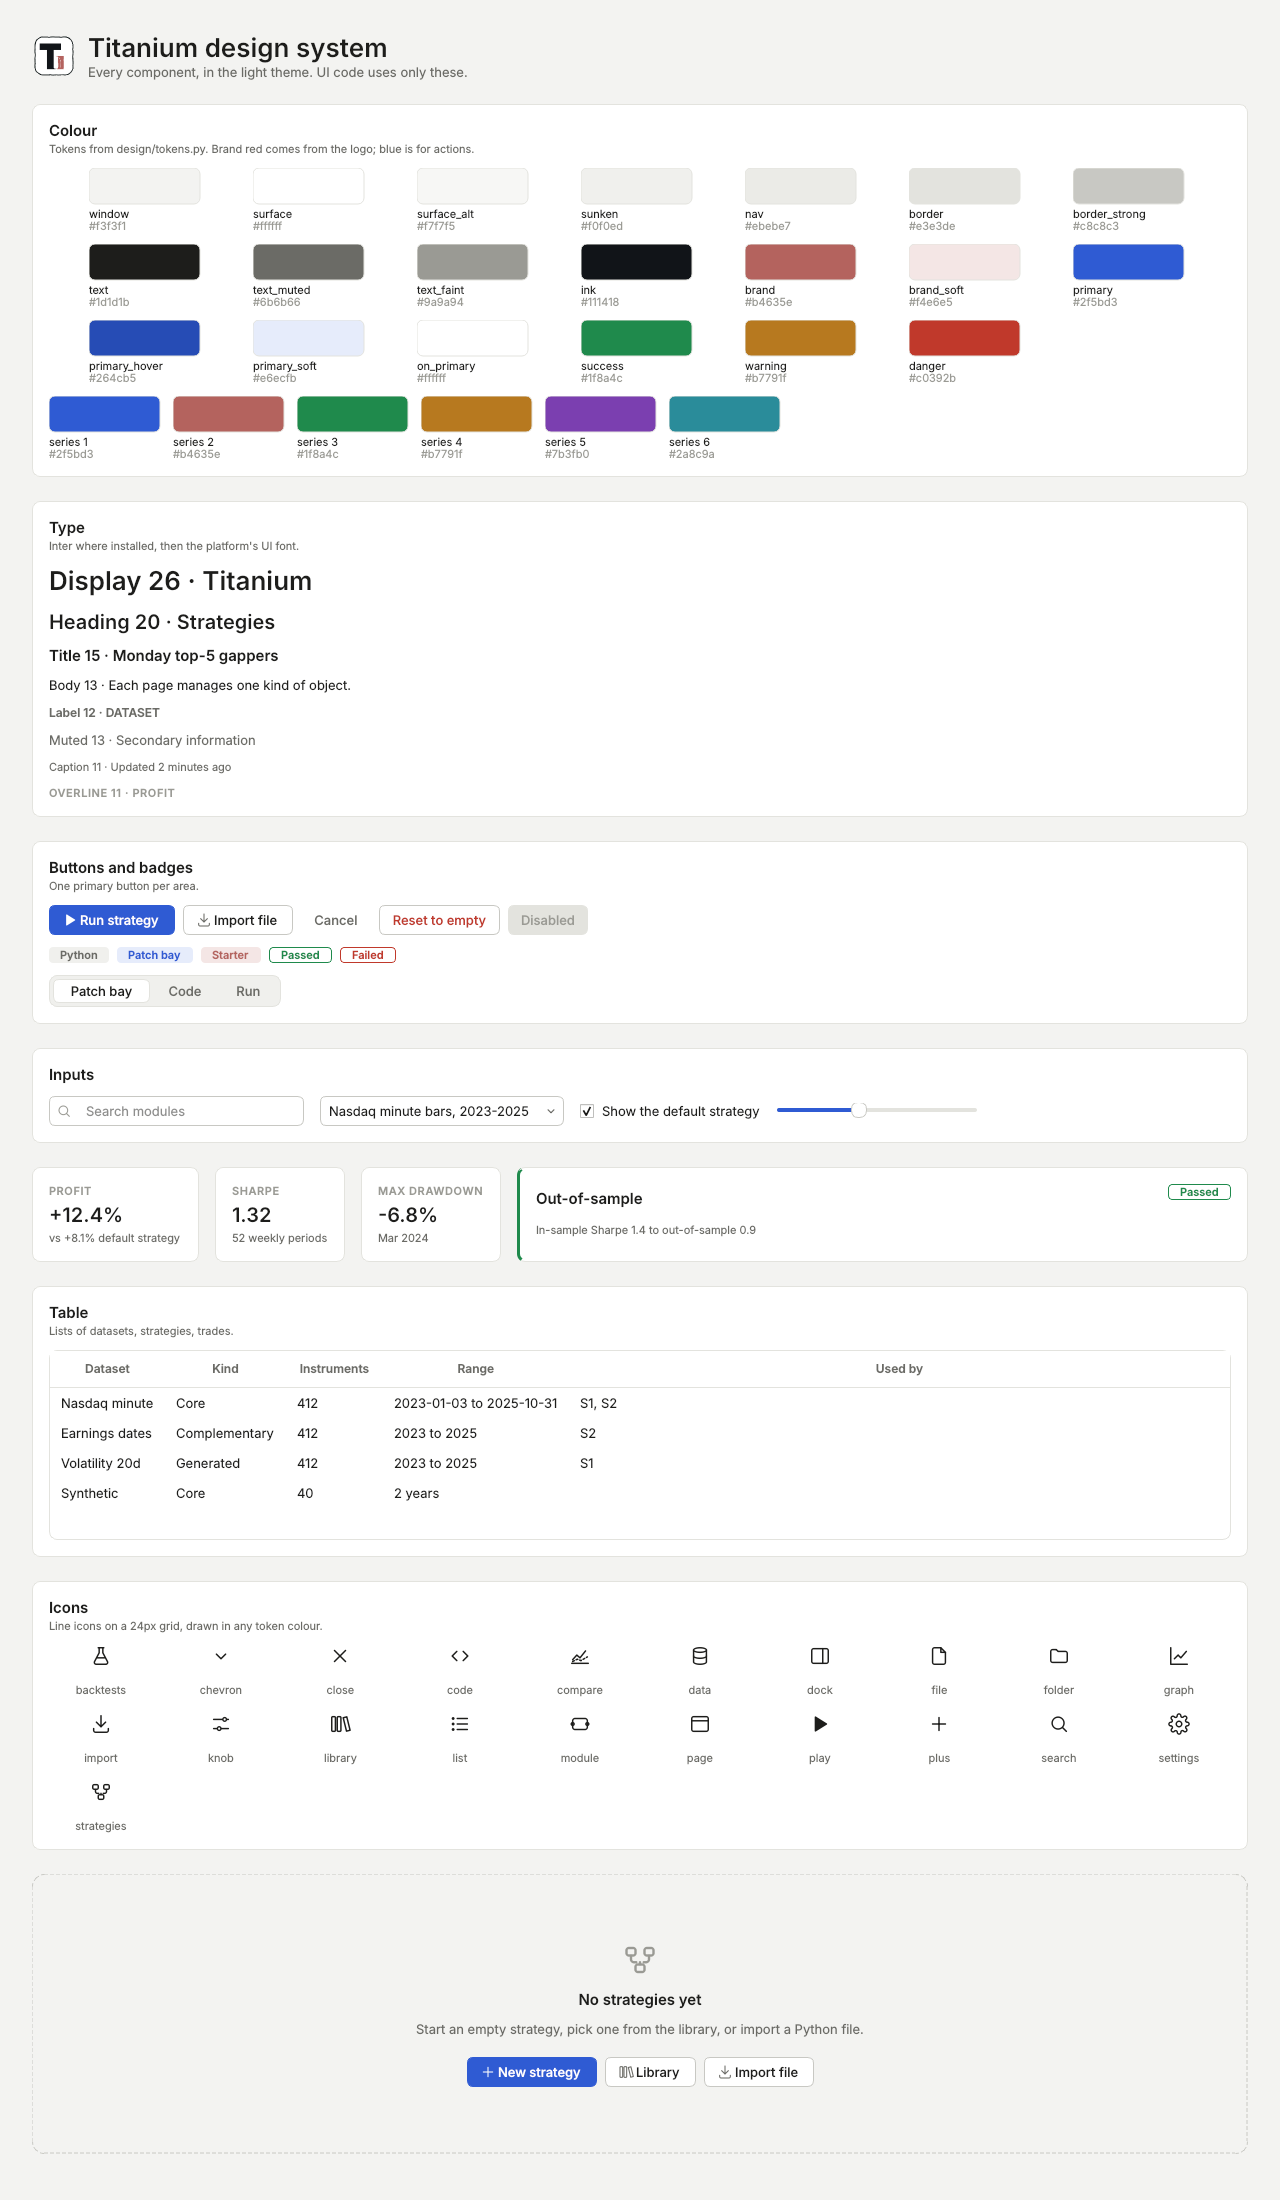
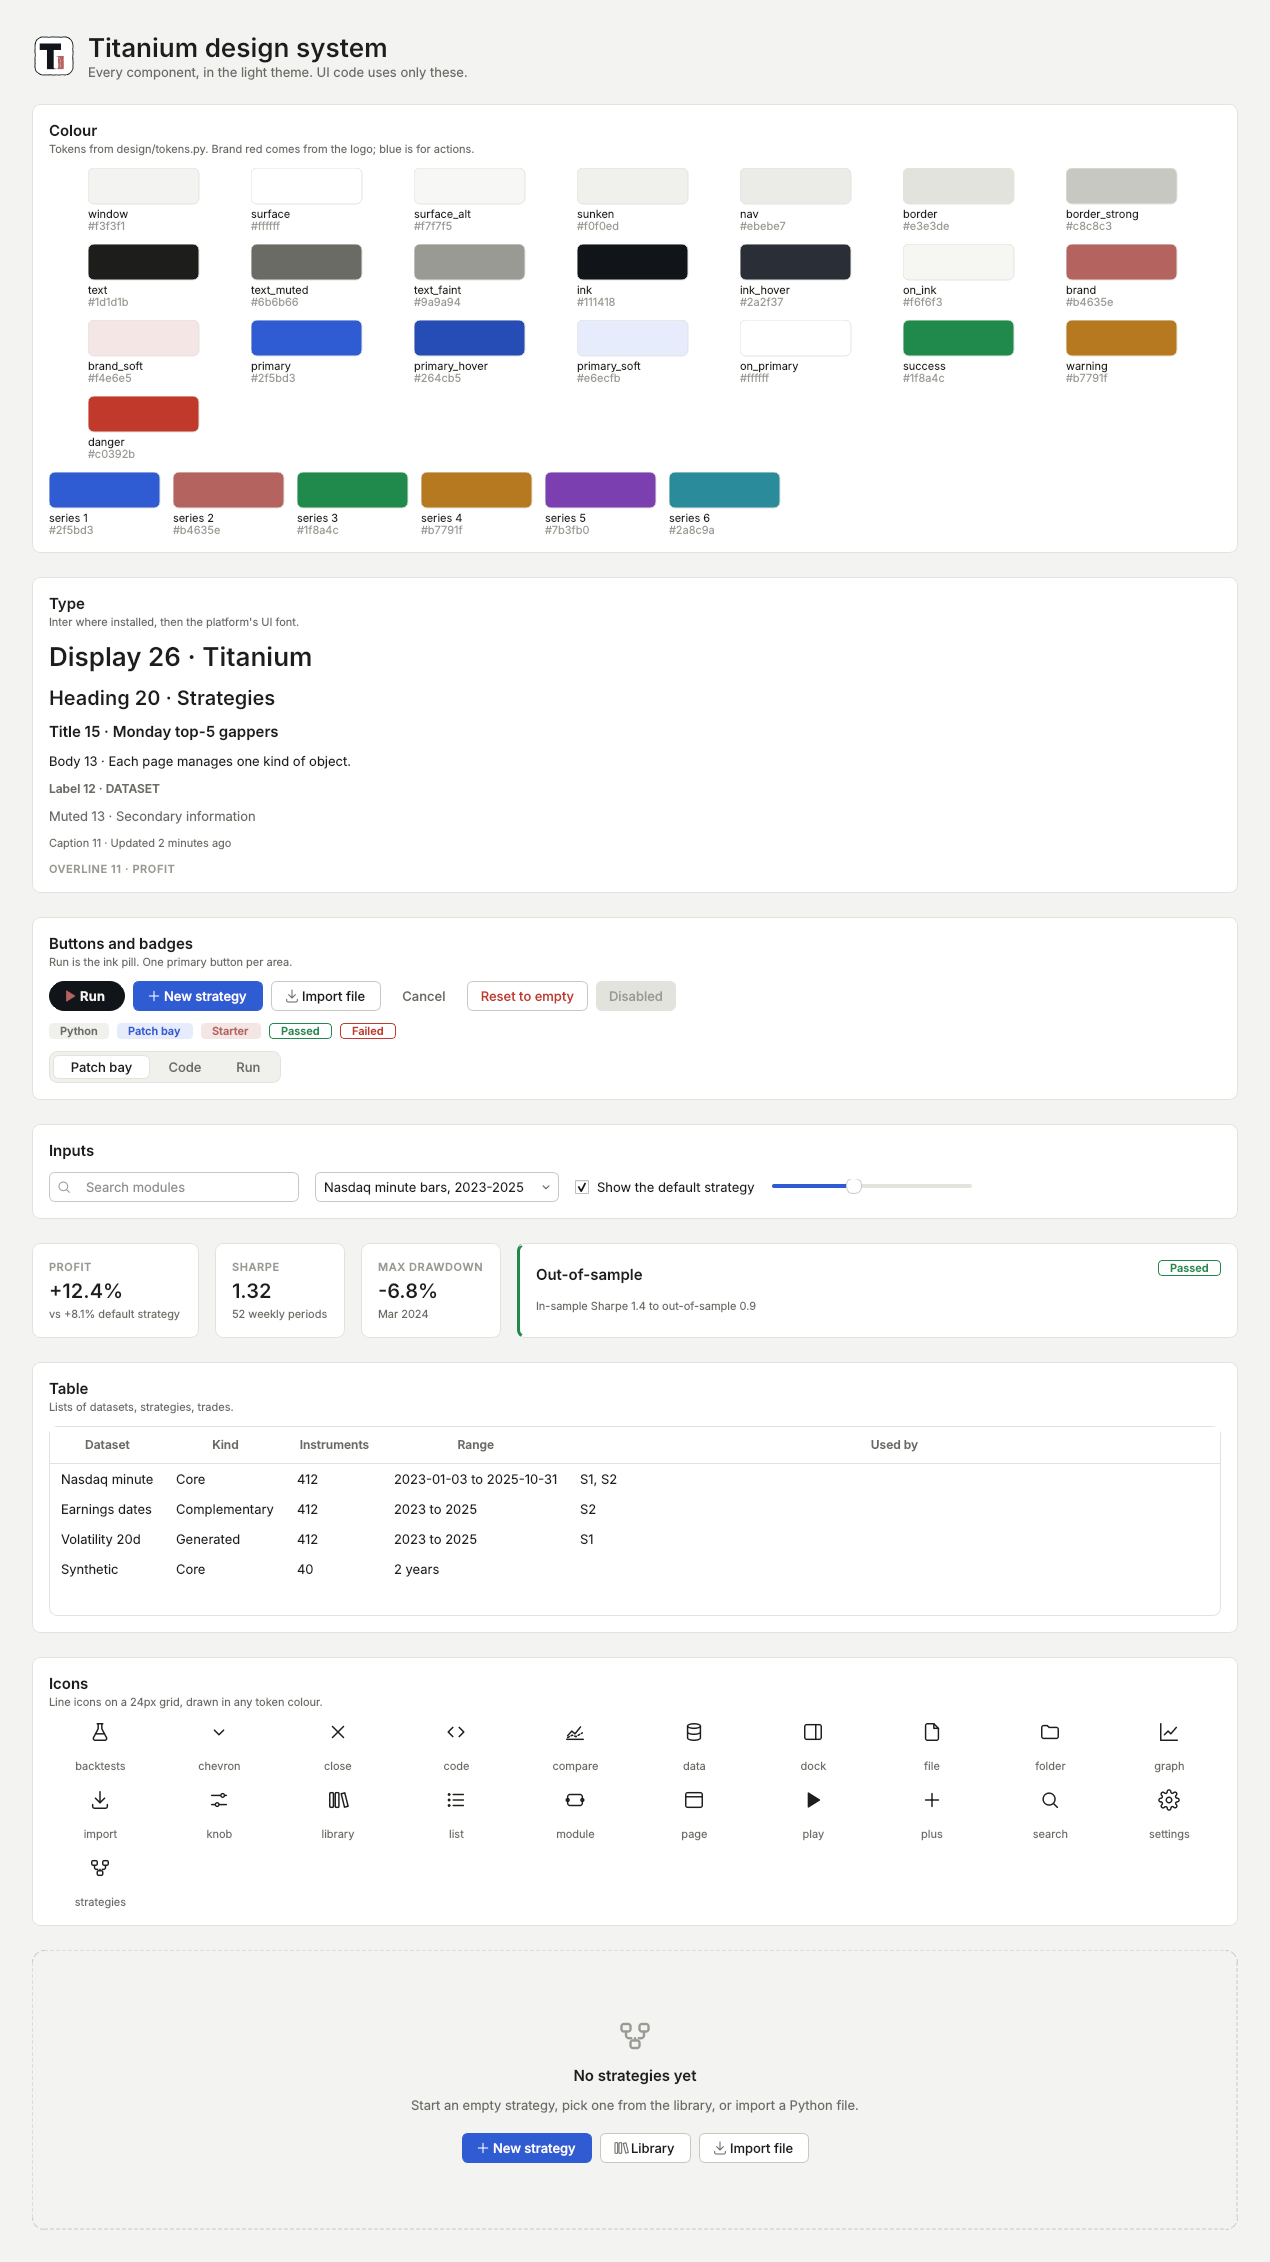
Make Run a sleek ink pill instead of a blue block
Adds a 'run' button variant (ink background, pill shape, brand-red play glyph,
shortcut hint beside it) with ink_hover/on_ink tokens, shown in the gallery.

Claude-Session: https://claude.ai/code/session_019kgugidBpGqJeYENPybQqe

diff --git a/titanium/desktop/design/tokens.py b/titanium/desktop/design/tokens.py
@@ -46,6 +46,8 @@ class Palette:
     text_muted: str
     text_faint: str
     ink: str  # the logo's black (white in dark mode)
+    ink_hover: str
+    on_ink: str
     brand: str  # the logo's muted red
     brand_soft: str
     primary: str  # actions and selection
@@ -63,7 +65,7 @@ LIGHT = Palette(
     window="#f3f3f1", surface="#ffffff", surface_alt="#f7f7f5", sunken="#f0f0ed", nav="#ebebe7",
     border="#e3e3de", border_strong="#c8c8c3",
     text="#1d1d1b", text_muted="#6b6b66", text_faint="#9a9a94",
-    ink="#111418", brand="#b4635e", brand_soft="#f4e6e5",
+    ink="#111418", ink_hover="#2a2f37", on_ink="#f6f6f3", brand="#b4635e", brand_soft="#f4e6e5",
     primary="#2f5bd3", primary_hover="#264cb5", primary_soft="#e6ecfb", on_primary="#ffffff",
     success="#1f8a4c", warning="#b7791f", danger="#c0392b",
     series=("#2f5bd3", "#b4635e", "#1f8a4c", "#b7791f", "#7b3fb0", "#2a8c9a"),
@@ -74,7 +76,7 @@ DARK = Palette(
     window="#1b1b1a", surface="#232321", surface_alt="#2a2a28", sunken="#181817", nav="#151514",
     border="#30302d", border_strong="#45453f",
     text="#e8e8e3", text_muted="#a3a39c", text_faint="#6f6f69",
-    ink="#f1f1ec", brand="#d08a84", brand_soft="#3a2726",
+    ink="#f1f1ec", ink_hover="#d6d6d0", on_ink="#151514", brand="#d08a84", brand_soft="#3a2726",
     primary="#4a7cf0", primary_hover="#6690f5", primary_soft="#1f2a44", on_primary="#ffffff",
     success="#4cc27e", warning="#e0b062", danger="#ff6b5e",
     series=("#6690f5", "#d08a84", "#4cc27e", "#e0b062", "#b38cf0", "#5cc3d1"),

diff --git a/titanium/desktop/design/theme.py b/titanium/desktop/design/theme.py
@@ -125,6 +125,11 @@ QPushButton:disabled {{ color: {p.text_faint}; border-color: {p.border}; }}
 QPushButton[variant="primary"] {{ background: {p.primary}; color: {p.on_primary}; border: 1px solid {p.primary}; }}
 QPushButton[variant="primary"]:hover {{ background: {p.primary_hover}; border-color: {p.primary_hover}; }}
 QPushButton[variant="primary"]:disabled {{ background: {p.border}; border-color: {p.border}; color: {p.text_faint}; }}
+QPushButton[variant="run"] {{ background: {p.ink}; color: {p.on_ink}; border: 1px solid {p.ink};
+            border-radius: {T.CONTROL_HEIGHT // 2}px; padding: 0 {s['lg']}px 0 {s['md']}px; font-weight: 600;
+            letter-spacing: 0.3px; }}
+QPushButton[variant="run"]:hover {{ background: {p.ink_hover}; border-color: {p.ink_hover}; }}
+QPushButton[variant="run"]:pressed {{ background: {p.text_muted}; border-color: {p.text_muted}; }}
 QPushButton[variant="ghost"] {{ background: transparent; border: 1px solid transparent; color: {p.text_muted}; }}
 QPushButton[variant="ghost"]:hover {{ background: {p.surface_alt}; color: {p.text}; }}
 QPushButton[variant="danger"] {{ color: {p.danger}; }}

diff --git a/titanium/desktop/design/gallery.py b/titanium/desktop/design/gallery.py
@@ -84,11 +84,11 @@ def build() -> QWidget:
     col.addWidget(t)
 
     # buttons and badges
-    b = section("Buttons and badges", "One primary button per area.")
-    b.body.addLayout(hbox(button("Run strategy", "primary", "play"), button("Import file", icon="import"),
+    b = section("Buttons and badges", "Run is the ink pill. One primary button per area.")
+    b.body.addLayout(hbox(button("Run", "run", "play"), button("New strategy", "primary", "plus"), button("Import file", icon="import"),
                           button("Cancel", "ghost"), button("Reset to empty", "danger"),
                           button("Disabled", "primary"), None))
-    b.body.itemAt(b.body.count() - 1).layout().itemAt(4).widget().setEnabled(False)
+    b.body.itemAt(b.body.count() - 1).layout().itemAt(5).widget().setEnabled(False)
     b.body.addLayout(hbox(badge("Python"), badge("Patch bay", "primary"), badge("Starter", "brand"),
                           badge("Passed", "success"), badge("Failed", "danger"), None))
     seg = Segmented(["Patch bay", "Code", "Run"])

diff --git a/titanium/desktop/design/components.py b/titanium/desktop/design/components.py
@@ -28,15 +28,16 @@ def label(text: str, role: str = "", wrap: bool = False) -> QLabel:
 
 
 def button(text: str, variant: str = "secondary", icon: str | None = None, tip: str = "") -> QPushButton:
-    """variant: primary (one per area), secondary, ghost, danger."""
+    """variant: primary (one per area), secondary, ghost, danger, run (the Run action: an ink pill)."""
     b = QPushButton(text)
     if variant != "secondary":
         b.setProperty("variant", variant)
     b.setCursor(Qt.PointingHandCursor)
     if icon:
-        def paint(w, name=icon, primary=variant == "primary"):
+        def paint(w, name=icon, v=variant):
             p = theme.current()
-            w.setIcon(icons.icon(name, p.on_primary if primary else p.text_muted, size=16))
+            color = {"primary": p.on_primary, "run": p.brand}.get(v, p.text_muted)
+            w.setIcon(icons.icon(name, color, size=16 if v != "run" else 14))
         paint(b)
         theme.watch(b, paint)
     if tip:

diff --git a/titanium/desktop/pages/strategies.py b/titanium/desktop/pages/strategies.py
@@ -33,8 +33,8 @@ class StrategyTab(QWidget):
         lay.setContentsMargins(S["xl"], S["lg"], S["xl"], S["xl"])
         lay.setSpacing(S["lg"])
         self.switch = Segmented([name for name, _, _ in STRATEGY_VIEWS])
-        self.run_btn = button("Run", "primary", "play", "Run this strategy (Ctrl+Enter)")
-        lay.addLayout(hbox(self.switch, badge("Empty strategy"), None, self.run_btn))
+        self.run_btn = button("Run", "run", "play", "Run this strategy (Ctrl+Enter)")
+        lay.addLayout(hbox(self.switch, badge("Empty strategy"), None, label("Ctrl+Enter", "caption"), self.run_btn))
         self.views = QStackedWidget()
         for name, icon, text in STRATEGY_VIEWS:
             self.views.addWidget(EmptyState(icon, name, text))
